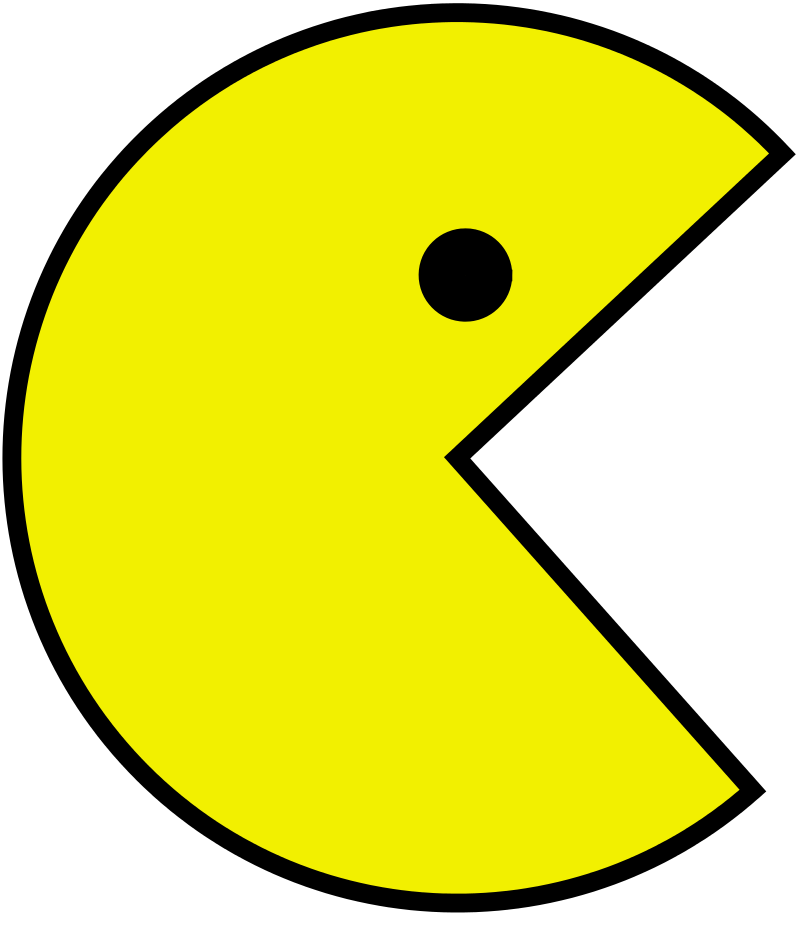
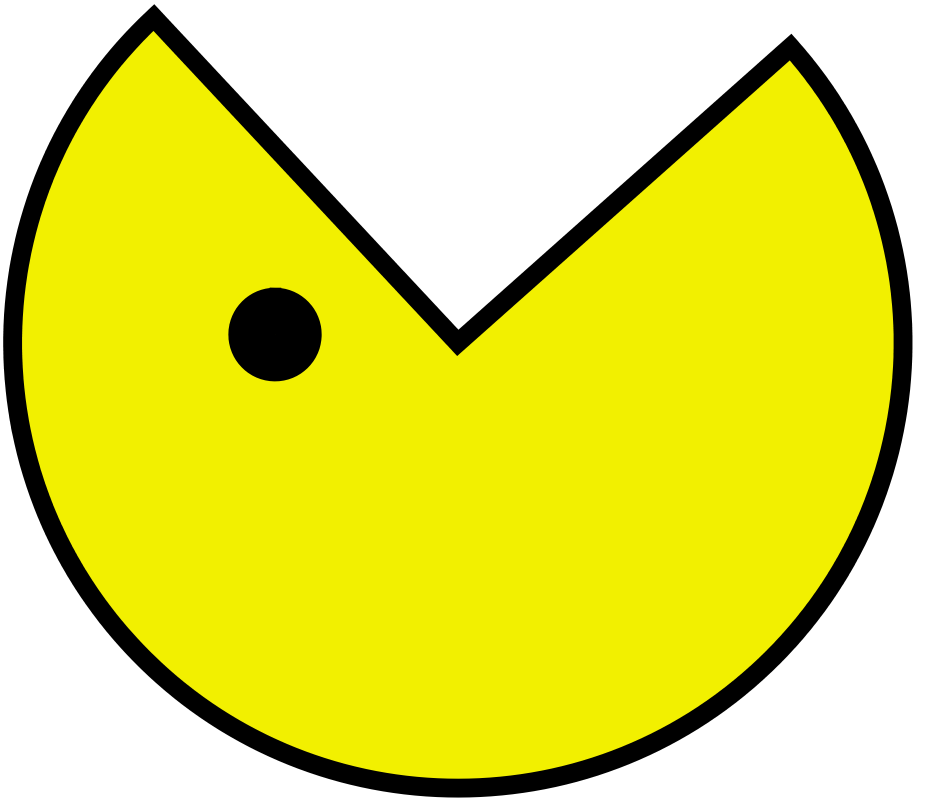
added drawCharacter

diff --git a/src/com/jgegroup/pacman/objects/MovingObject.java b/src/com/jgegroup/pacman/objects/MovingObject.java
@@ -38,6 +38,27 @@ public abstract class MovingObject extends GameObject {
         return collisionHandle(object);
     }
 
+
+    /** @@Author: Lucas
+     * Draws a given character input facing 4 directions and
+     * returns the characters drawn
+     * Throws no exceptions
+     * @param obj: moving object like Pacman or ghost
+     * @return image array with size of 4.
+     */
+    import javafx.scene.image.Image;
+    public Image[] drawCharacter(MovingObject obj) {
+        Image[] objImage = new Image[4];
+        if (obj.getName().equals("Pacman")) {
+            objImage[0] = new Image(res/characters/Pacman.png);
+        } else if (obj.getName().equals("Ghost")) { // need to specify which ghost to implement
+            objImage[0] = new Image(res/characters/Ghost.png);
+        }
+        for (int i = 1; i < objImage.length; i++) {
+            objImage[i] = rotateCharacter(obj, 90); // wrote the degree so that we can maybe reuse rotate function in angry bird
+        }
+    }
+
     /** @@Author: Jesse
      * Handles the collision for the inheritor class
      * Throws no exceptions
